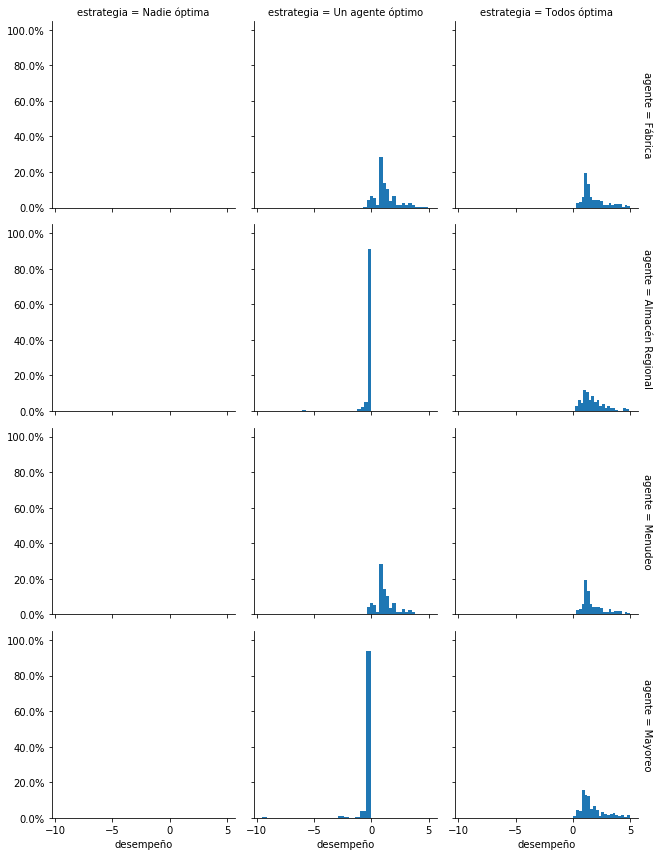
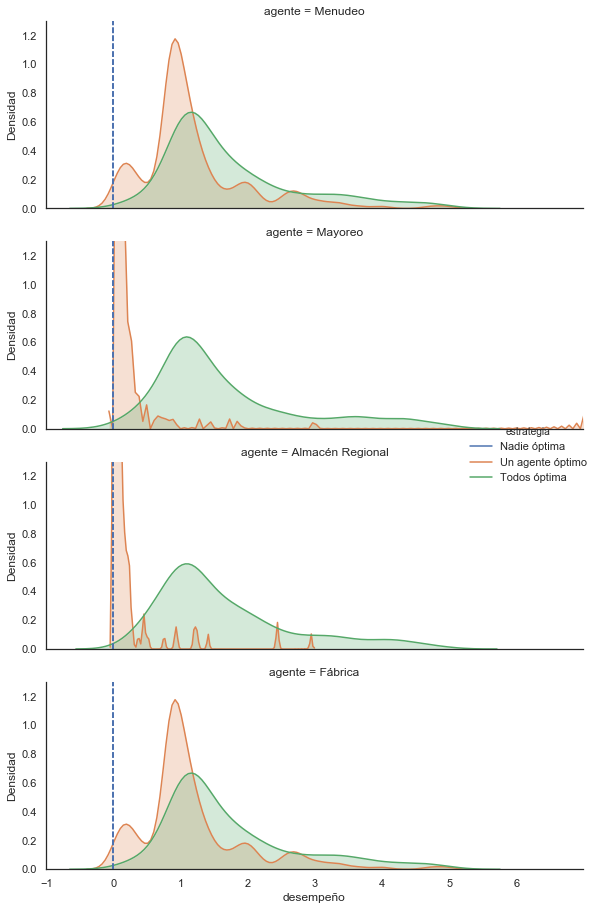
Fixed the index visualizations to compare good and dumb policies

diff --git a/code/model/evaluate_policies.py b/code/model/evaluate_policies.py
@@ -156,109 +156,124 @@ nonrestricted_retail_final_money, nonrestricted_wholesale_final_money, nonrestri
 customer_demand_daily = pd.read_csv("./../../aux_documents/customer_trend.csv")['Demand']*5
 fields_supply_daily = pd.read_csv("../../aux_documents/fields_trend.csv")['Supply']
 
-eval_policies_df = pd.DataFrame(columns=['iteration', 'strategy', 'agent', 'money']) 
+eval_policies_df = pd.DataFrame(columns=['iteration','smart_agent', 'strategy', 'agent', 'money']) 
 
-
-for i in range(250):
-    
-    print(i)
-    
-    np.random.seed(None)
-    # Prices and Costs
-    # Prices of one beer at each level of the supply chain.
-    field_price = np.random.uniform(0,50)
-    factory_price = np.random.uniform(field_price,1.5*field_price)
-    regional_warehouse_price = np.random.uniform(factory_price, 1.5*factory_price)
-    wholesale_price = np.random.uniform(regional_warehouse_price,1.5*regional_warehouse_price)
-    retail_price = np.random.uniform(wholesale_price,1.5*wholesale_price)
-    # Cost of holding one beer during one day on warehouse.
-    # Assumed to be the same for all levels
-    warehouse_price = 10/365 #1/365 = 0.002739 it is still profitable to keep beer
-    # on the warehouse for almost a year just so they don't get backlog
-    # Cost of backlog: non fulfilled orders
-    backlog_cost = np.random.uniform(0,5)
-    
-    # Initial Inventories
-    retail_ininv = np.random.uniform(0,50)
-    wholesale_ininv = np.random.uniform(0,50)
-    regional_warehouse_ininv = np.random.uniform(0,50)
-    factory_ininv = np.random.uniform(0,50)
-    
-    # Run small realizations 
-    exec(open("players.py").read())
-    exec(open("world.py").read())
-    np.random.seed(20170130)
-    exec(open("policy_iteration.py").read())
-    
-     ###### Declare the optimal, dumb and dumber policies
-    
-    # Optimal: algorithm results
-    optimal_retail_policy = retail_agent.best_policy
-    optimal_wholesale_policy = wholesale_agent.best_policy
-    optimal_regional_warehouse_policy = regional_warehouse_agent.best_policy
-    optimal_factory_policy = factory_agent.best_policy
-    
-    # Dumb: only one agent learnt (retail) the others have constant demand equal to average yearly demand
-    average_daily_demand = np.mean(customer_demand_daily)
-    dumb_retail_policy = np.repeat(average_daily_demand,365)
-    dumb_wholesale_policy = np.repeat(average_daily_demand,365)
-    dumb_regional_warehouse_policy = regional_warehouse_agent.best_policy
-    dumb_factory_policy = np.repeat(average_daily_demand,365)
-    
-    # Dumb: all agents have constant demand equal to average yearly demand
-    dumber_retail_policy = np.repeat(average_daily_demand,365)
-    dumber_wholesale_policy = np.repeat(average_daily_demand,365)
-    dumber_regional_warehouse_policy = np.repeat(average_daily_demand,365)
-    dumber_factory_policy = np.repeat(average_daily_demand,365)
-    
-    
-    smart_retail_final_money, smart_wholesale_final_money, smart_regional_warehouse_final_money, smart_factory_final_money = evaluate_world_policies(optimal_retail_policy,
-                                            optimal_wholesale_policy,
-                                            optimal_regional_warehouse_policy,
-                                            optimal_factory_policy,
-                                        fields_supply['Supply'],
-                                        customer_demand['Demand'])
-    dumb_retail_final_money, dumb_wholesale_final_money, dumb_regional_warehouse_final_money, dumb_factory_final_money = evaluate_world_policies(dumb_retail_policy,
-                                           dumb_wholesale_policy,
-                                           dumb_regional_warehouse_policy,
-                                           dumb_factory_policy,
-                                        fields_supply['Supply'],
-                                        customer_demand['Demand'])
-    dumber_retail_final_money, dumber_wholesale_final_money, dumber_regional_warehouse_final_money, dumber_factory_final_money = evaluate_world_policies(dumber_retail_policy,
-                                           dumber_wholesale_policy,
-                                           dumber_regional_warehouse_policy,
-                                           dumber_factory_policy,
-                                        fields_supply['Supply'],
-                                        customer_demand['Demand'])
-    
-    # Add new rows to the original df
-    new_row = [i,'Smart','Retail',smart_retail_final_money]
-    eval_policies_df.loc[eval_policies_df.shape[0] + 1] = new_row
-    new_row = [i,'Smart','Wholesale',smart_wholesale_final_money]
-    eval_policies_df.loc[eval_policies_df.shape[0] + 1] = new_row
-    new_row = [i,'Smart','Regional Warehouse',smart_regional_warehouse_final_money]
-    eval_policies_df.loc[eval_policies_df.shape[0] + 1] = new_row
-    new_row = [i,'Smart','Factory',smart_factory_final_money]
-    eval_policies_df.loc[eval_policies_df.shape[0] + 1] = new_row
-    new_row = [i,'Dumb','Retail',dumb_retail_final_money]
-    eval_policies_df.loc[eval_policies_df.shape[0] + 1] = new_row
-    new_row = [i,'Dumb','Wholesale',dumb_wholesale_final_money]
-    eval_policies_df.loc[eval_policies_df.shape[0] + 1] = new_row
-    new_row = [i,'Dumb','Regional Warehouse',dumb_regional_warehouse_final_money]
-    eval_policies_df.loc[eval_policies_df.shape[0] + 1] = new_row
-    new_row = [i,'Dumb','Factory',dumb_factory_final_money]
-    eval_policies_df.loc[eval_policies_df.shape[0] + 1] = new_row
-    new_row = [i,'Dumber','Retail',dumber_retail_final_money]
-    eval_policies_df.loc[eval_policies_df.shape[0] + 1] = new_row
-    new_row = [i,'Dumber','Wholesale',dumber_wholesale_final_money]
-    eval_policies_df.loc[eval_policies_df.shape[0] + 1] = new_row
-    new_row = [i,'Dumber','Regional Warehouse',dumber_regional_warehouse_final_money]
-    eval_policies_df.loc[eval_policies_df.shape[0] + 1] = new_row
-    new_row = [i,'Dumber','Factory',dumber_factory_final_money]
-    eval_policies_df.loc[eval_policies_df.shape[0] + 1] = new_row
-    
-    
-    eval_policies_df.to_csv('./../../aux_documents/evaluate_policies.csv')
+for agent in ["retail", "wholesale", "regional warehouse", "factory"]:
+    for i in range(250):
+        
+        print(i)
+        
+        np.random.seed(None)
+        # Prices and Costs
+        # Prices of one beer at each level of the supply chain.
+        field_price = np.random.uniform(0,50)
+        factory_price = np.random.uniform(field_price,1.5*field_price)
+        regional_warehouse_price = np.random.uniform(factory_price, 1.5*factory_price)
+        wholesale_price = np.random.uniform(regional_warehouse_price,1.5*regional_warehouse_price)
+        retail_price = np.random.uniform(wholesale_price,1.5*wholesale_price)
+        # Cost of holding one beer during one day on warehouse.
+        # Assumed to be the same for all levels
+        warehouse_price = 10/365 #1/365 = 0.002739 it is still profitable to keep beer
+        # on the warehouse for almost a year just so they don't get backlog
+        # Cost of backlog: non fulfilled orders
+        backlog_cost = np.random.uniform(0,5)
+        
+        # Initial Inventories
+        retail_ininv = np.random.uniform(0,50)
+        wholesale_ininv = np.random.uniform(0,50)
+        regional_warehouse_ininv = np.random.uniform(0,50)
+        factory_ininv = np.random.uniform(0,50)
+        
+        # Run small realizations 
+        exec(open("players.py").read())
+        exec(open("world.py").read())
+        np.random.seed(20170130)
+        exec(open("policy_iteration.py").read())
+        
+         ###### Declare the optimal, dumb and dumber policies
+        
+        # Optimal: algorithm results
+        optimal_retail_policy = retail_agent.best_policy
+        optimal_wholesale_policy = wholesale_agent.best_policy
+        optimal_regional_warehouse_policy = regional_warehouse_agent.best_policy
+        optimal_factory_policy = factory_agent.best_policy
+        
+        # Dumb: only one agent learnt (retail) the others have constant demand equal to average yearly demand
+        average_daily_demand = np.mean(customer_demand_daily)
+        if agent == "retail":
+            dumb_retail_policy = retail_agent.best_policy
+            dumb_wholesale_policy = np.repeat(average_daily_demand,365)
+            dumb_regional_warehouse_policy = np.repeat(average_daily_demand,365)
+            dumb_factory_policy = np.repeat(average_daily_demand,365)
+        elif agent == "wholesale":
+            dumb_retail_policy = np.repeat(average_daily_demand,365)
+            dumb_wholesale_policy = wholesale_agent.best_policy
+            dumb_regional_warehouse_policy = np.repeat(average_daily_demand,365)
+            dumb_factory_policy = np.repeat(average_daily_demand,365)        
+        elif agent == "regional warehouse":
+            dumb_retail_policy = np.repeat(average_daily_demand,365)
+            dumb_wholesale_policy = np.repeat(average_daily_demand,365)
+            dumb_regional_warehouse_policy = regional_warehouse_agent.best_policy
+            dumb_factory_policy = np.repeat(average_daily_demand,365)
+        elif agent == "factory":
+            dumb_retail_policy = np.repeat(average_daily_demand,365)
+            dumb_wholesale_policy = np.repeat(average_daily_demand,365)
+            dumb_regional_warehouse_policy = np.repeat(average_daily_demand,365)
+            dumb_factory_policy = factory_agent.best_policy      
+     
+        # Dumb: all agents have constant demand equal to average yearly demand
+        dumber_retail_policy = np.repeat(average_daily_demand,365)
+        dumber_wholesale_policy = np.repeat(average_daily_demand,365)
+        dumber_regional_warehouse_policy = np.repeat(average_daily_demand,365)
+        dumber_factory_policy = np.repeat(average_daily_demand,365)
+        
+        
+        smart_retail_final_money, smart_wholesale_final_money, smart_regional_warehouse_final_money, smart_factory_final_money = evaluate_world_policies(optimal_retail_policy,
+                                                optimal_wholesale_policy,
+                                                optimal_regional_warehouse_policy,
+                                                optimal_factory_policy,
+                                            fields_supply['Supply'],
+                                            customer_demand['Demand'])
+        dumb_retail_final_money, dumb_wholesale_final_money, dumb_regional_warehouse_final_money, dumb_factory_final_money = evaluate_world_policies(dumb_retail_policy,
+                                               dumb_wholesale_policy,
+                                               dumb_regional_warehouse_policy,
+                                               dumb_factory_policy,
+                                            fields_supply['Supply'],
+                                            customer_demand['Demand'])
+        dumber_retail_final_money, dumber_wholesale_final_money, dumber_regional_warehouse_final_money, dumber_factory_final_money = evaluate_world_policies(dumber_retail_policy,
+                                               dumber_wholesale_policy,
+                                               dumber_regional_warehouse_policy,
+                                               dumber_factory_policy,
+                                            fields_supply['Supply'],
+                                            customer_demand['Demand'])
+        
+        # Add new rows to the original df
+        new_row = [i,agent,'Smart','Retail',smart_retail_final_money]
+        eval_policies_df.loc[eval_policies_df.shape[0] + 1] = new_row
+        new_row = [i,agent,'Smart','Wholesale',smart_wholesale_final_money]
+        eval_policies_df.loc[eval_policies_df.shape[0] + 1] = new_row
+        new_row = [i,agent,'Smart','Regional Warehouse',smart_regional_warehouse_final_money]
+        eval_policies_df.loc[eval_policies_df.shape[0] + 1] = new_row
+        new_row = [i,agent,'Smart','Factory',smart_factory_final_money]
+        eval_policies_df.loc[eval_policies_df.shape[0] + 1] = new_row
+        new_row = [i,agent,'Dumb','Retail',dumb_retail_final_money]
+        eval_policies_df.loc[eval_policies_df.shape[0] + 1] = new_row
+        new_row = [i,agent,'Dumb','Wholesale',dumb_wholesale_final_money]
+        eval_policies_df.loc[eval_policies_df.shape[0] + 1] = new_row
+        new_row = [i,agent,'Dumb','Regional Warehouse',dumb_regional_warehouse_final_money]
+        eval_policies_df.loc[eval_policies_df.shape[0] + 1] = new_row
+        new_row = [i,agent,'Dumb','Factory',dumb_factory_final_money]
+        eval_policies_df.loc[eval_policies_df.shape[0] + 1] = new_row
+        new_row = [i,agent,'Dumber','Retail',dumber_retail_final_money]
+        eval_policies_df.loc[eval_policies_df.shape[0] + 1] = new_row
+        new_row = [i,agent,'Dumber','Wholesale',dumber_wholesale_final_money]
+        eval_policies_df.loc[eval_policies_df.shape[0] + 1] = new_row
+        new_row = [i,agent,'Dumber','Regional Warehouse',dumber_regional_warehouse_final_money]
+        eval_policies_df.loc[eval_policies_df.shape[0] + 1] = new_row
+        new_row = [i,agent,'Dumber','Factory',dumber_factory_final_money]
+        eval_policies_df.loc[eval_policies_df.shape[0] + 1] = new_row
+        
+        eval_policies_df.to_csv('./../../aux_documents/evaluate_policies.csv')
 
 # Create the indices based on the "dumber" policy to interpret uplifts
 eval_policies_df_ids = eval_policies_df.pivot_table(index=['iteration','agent'], columns='strategy', values = 'money', aggfunc=np.sum)
@@ -290,17 +305,31 @@ eval_policies_df_sp.groupby(['agente', 'estrategia'])['desempeño'].median().res
 # preprocessing a bit because outliers mess up the plots
 eval_policies_df_sp_no_outl = eval_policies_df_sp[eval_policies_df_sp.desempeño < 5]
 eval_policies_df_sp_no_outl = eval_policies_df_sp_no_outl[eval_policies_df_sp_no_outl.desempeño > (10*(-1))]
+eval_policies_df_sp_no_outl.to_csv('./../../aux_documents/evaluate_policies_clean.csv')
 
-g = sns.FacetGrid(eval_policies_df_sp_no_outl, 
-                      row='agente', 
-                      col = 'estrategia', col_order = ['Nadie óptima','Un agente óptimo', 'Todos óptima'],
-                      margin_titles=True)
-g.map(plt.hist, 'desempeño', bins=20)
 
-from matplotlib.ticker import FuncFormatter
-def to_percent(y, position):
-    s = str(100*y/(eval_policies_df_ids.shape[0]/12))
-    return s + '%'
-formatter = FuncFormatter(to_percent)
-plt.gca().yaxis.set_major_formatter(formatter)
+sns.set()
+sns.set_style(style='white')
+grid = sns.FacetGrid(eval_policies_df_sp_no_outl, 
+                     #col='estrategia', 
+                     row = 'agente', 
+                     hue='estrategia' ,
+                     row_order= ["Menudeo","Mayoreo","Almacén Regional","Fábrica"],
+                     size=3.2, 
+                     aspect=2)
+grid.map(sns.kdeplot, 'desempeño', shade=True)
+grid.set(xlim=(-1, eval_policies_df_sp_no_outl['desempeño'].max()), ylim=(0,6))
+grid.add_legend()
+
+
+# Add vertical lines for mean age on each plot
+def vertical_mean_line_base(x, **kwargs):
+    plt.axvline(0, linestyle = '--', color = 'b')
+
+grid.map(vertical_mean_line_base, 'desempeño') 
+
+grid.set_ylabels('Densidad', size=12)
+
 plt.show()
+
+

diff --git a/code/visualizations/pi_policies_payouts.py b/code/visualizations/pi_policies_payouts.py
@@ -137,14 +137,9 @@ fig.savefig(figname_latest)
 # Run training many times with diferent total epochs ################
 if run_iteration_comparison == True:
     # Different iterations that will be tested
-    iteration_tests = [100,500,1000,1500,2000,2500,
-                       3500,4000,5000,6000,7500,
-                       10000,12500,15000,17500,
-                       20000,25000,30000,35000,40000,45000,50000,
-                       60000,70000,80000, 90000, 100000,125000,150000,
-                       200000,250000, 300000, 350000,400000,450000,500000]
+    iteration_tests = [(x*10000)+10000 for x in range(50)]
     
-    eval_iter_df_1 = pd.DataFrame(columns=['agent', 'iterations', 'total_money', 'current_payout']) 
+    eval_iter_df = pd.DataFrame(columns=['agent', 'iterations', 'total_money', 'current_payout']) 
     
     # Setting world parameters for all the simulations
     # For an in-depth explanatiof of parameters please refer to the clean run script
@@ -176,27 +171,27 @@ if run_iteration_comparison == True:
         exec(open("policy_iteration.py").read())
         # Add final payouts to the main dataframe   
         new_row = ['Retail',iter_i,retail_agent.total_money,retail_agent.current_payout[-1]]
-        eval_iter_df_1.loc[eval_iter_df.shape[0] + 1] = new_row
+        eval_iter_df.loc[eval_iter_df.shape[0] + 1] = new_row
         new_row = ['Wholesale',iter_i,wholesale_agent.total_money,wholesale_agent.current_payout[-1]]
-        eval_iter_df_1.loc[eval_iter_df.shape[0] + 1] = new_row
+        eval_iter_df.loc[eval_iter_df.shape[0] + 1] = new_row
         new_row = ['Regional Warehouse',iter_i,regional_warehouse_agent.total_money,regional_warehouse_agent.current_payout[-1]]
-        eval_iter_df_1.loc[eval_iter_df.shape[0] + 1] = new_row
+        eval_iter_df.loc[eval_iter_df.shape[0] + 1] = new_row
         new_row = ['Factory',iter_i,factory_agent.total_money,factory_agent.current_payout[-1]]
-        eval_iter_df_1.loc[eval_iter_df.shape[0] + 1] = new_row
+        eval_iter_df.loc[eval_iter_df.shape[0] + 1] = new_row
     
-        eval_iter_df_1.to_csv('./../../aux_documents/evaluate_payout_iterations_2.csv')
+        eval_iter_df.to_csv('./../../aux_documents/evaluate_payout_iterations.csv')
     
     # Change levels to spanish to have visualization ready for document
-    eval_iter_df_1.columns = ['agente', 'iteración', 'dinero final', 'pago final']
-    eval_iter_df_1 = eval_iter_df.replace(['Retail','Wholesale', 'Regional Warehouse','Factory'],
+    eval_iter_df.columns = ['id', 'agente', 'iteración', 'dinero final', 'pago final']
+    eval_iter_df = eval_iter_df.replace(['Retail','Wholesale', 'Regional Warehouse','Factory'],
                                 ['Menudeo','Mayoreo', 'Almacén Regional','Fábrica'])
     
-    
-    # Plots ##########################
+    # Plots ##########################  
     
     # Visualizing as a faceted plot
     
-    fig = sns.lineplot('iteración', 'dinero final', data=eval_iter_df.iloc[:116,], hue='agente')
+    fig = sns.lineplot('iteración', 'dinero final', data=eval_iter_df_1, hue='agente')
+    fig.set(ylim=(0, 8000))
     fig.show()
     
     figname_latest = path_to_write_figures + "evaluating_iterations_money_2.png"

diff --git a/code/model/clean_run.py b/code/model/clean_run.py
@@ -11,6 +11,7 @@ import matplotlib.pyplot  as plt
 import seaborn as sns
 import pylab
 import shelve
+from matplotlib.ticker import FuncFormatter
 
 # For my Windows (work) computer
 #os.chdir('C:\\Users\\Fernanda Alcala\\Documents\\GitHub\\Tesis_Maestria\\code\\model\\')
